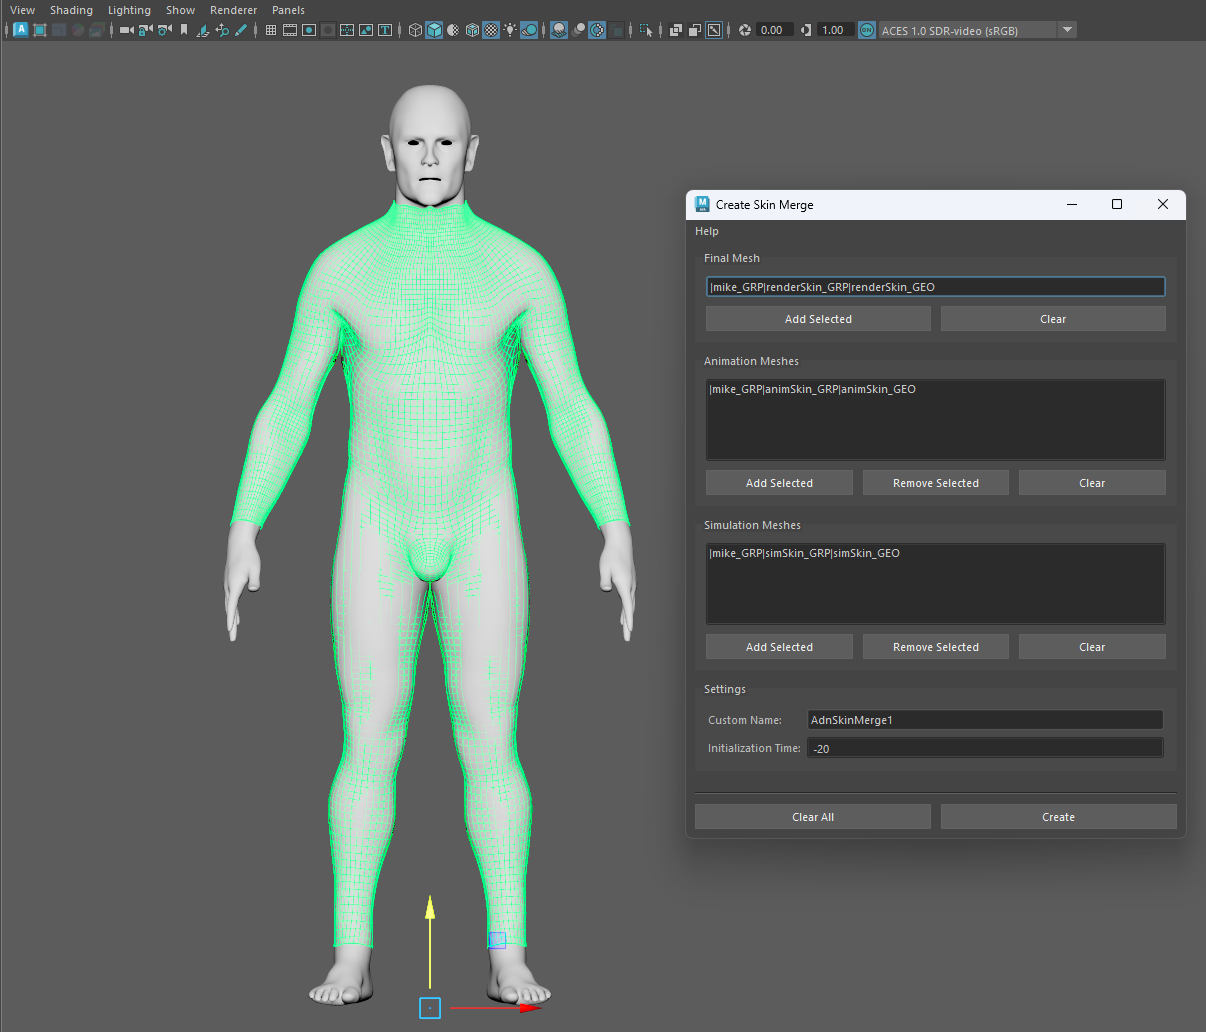
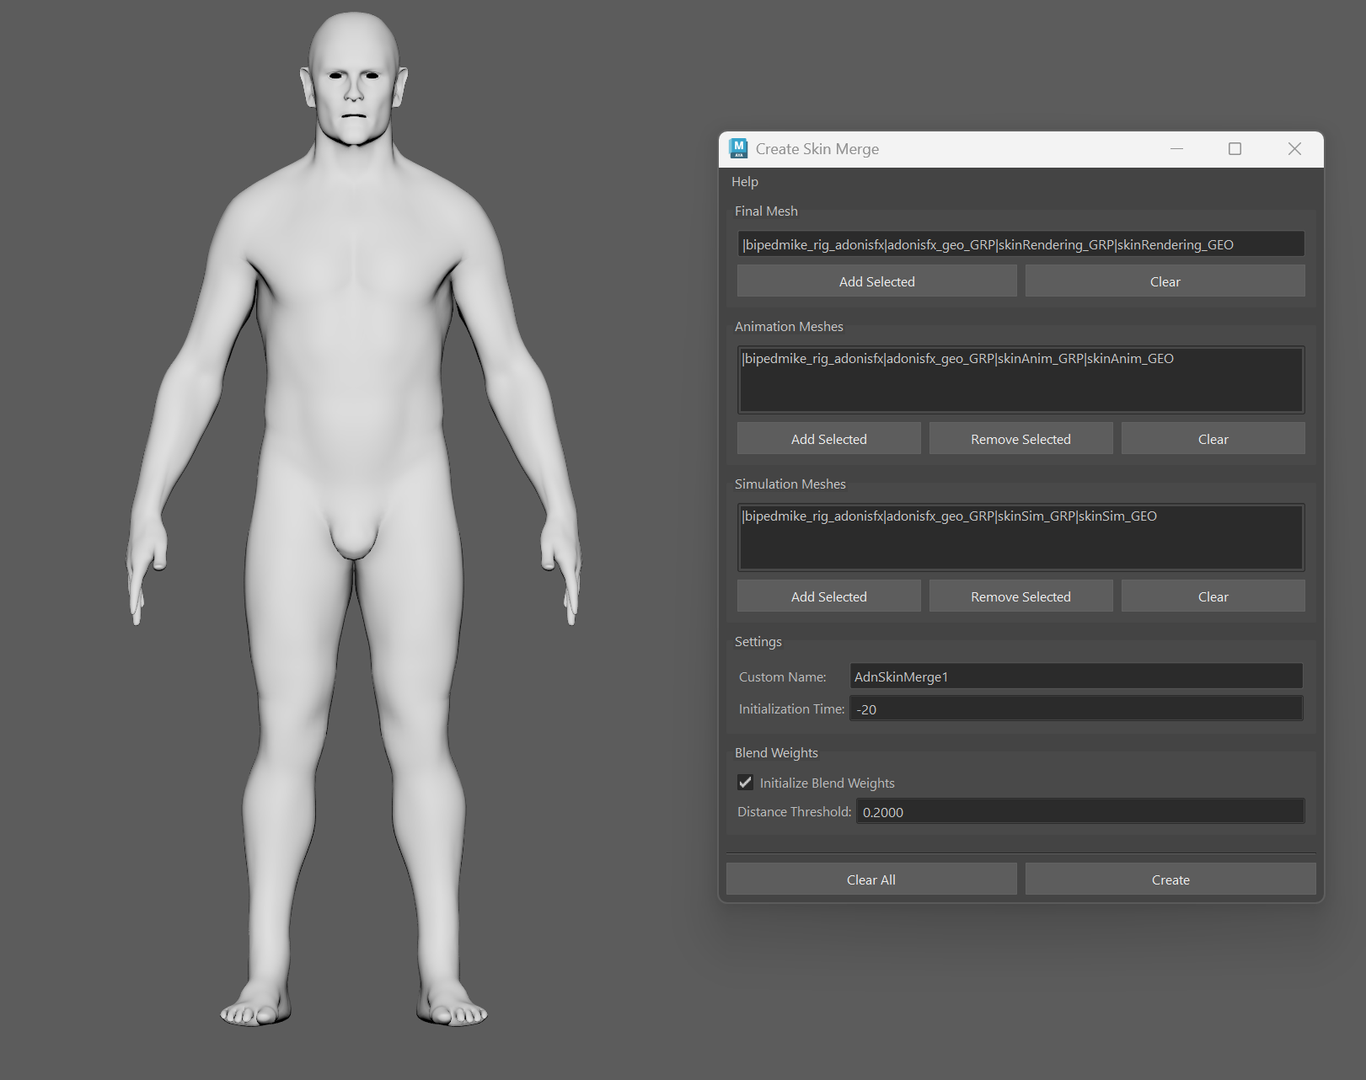
Update skin merge figures (in simple setup) to use the automatic initialization and the distance threshold

diff --git a/docs/maya/simple_setup.md b/docs/maya/simple_setup.md
@@ -462,11 +462,14 @@ This opens the Create Skin Merge UI, where you can add all the elements required
 
 The *Blend Weights* section can automatically initialize the blend map based on proximity. Enable blend weight initialization and set a distance threshold. Final-mesh vertices within that distance of a simulation mesh receive simulation influence, while the remaining vertices keep their animation influence.
 
+> [!WARNING]
+> Initialization can take significantly longer when using a large distance threshold or when the animation and simulation meshes are widely separated in space. Use the smallest threshold suitable for the setup and initialize at a frame where the meshes are positioned close to each other whenever possible.
+
 When everything has been properly set up, press the *Create* button to create the AdnSkinMerge deformer.
 
 <figure markdown>
   ![Create Skin Merge window with corresponding meshes added](images/simple_setup_skin_merge_01.png)
-  <figcaption><b>Figure 38</b>: Create Skin Merge window with corresponding meshes added.</figcaption>
+  <figcaption><b>Figure 38</b>: Create Skin Merge window with corresponding meshes, initialize blend weights enabled with a distance threshold of 0.2.</figcaption>
 </figure>
 
 ### Paint Weights
@@ -484,7 +487,7 @@ If the automatic initialization reports that no vertices are within the threshol
 
 <figure markdown>
   ![Blend weights painted map](images/simple_setup_skin_merge_02.png)
-  <figcaption><b>Figure 39</b>: Blend weights painted map.</figcaption>
+  <figcaption><b>Figure 39</b>: Blend weights painted map result of the automatic initialization plus two passes of smoothing in the whole mesh.</figcaption>
 </figure>
 
 With this basic paint setup the AdnSkinMerge deformer will now show the results of skin simulation transferred to the final mesh.

diff --git a/docs/maya/deformers/skin_merge.md b/docs/maya/deformers/skin_merge.md
@@ -39,7 +39,7 @@ The process to create an AdnSkinMerge deformer is:
 
 6. Press the *Create* button. A message in the terminal will confirm that AdnSkinMerge has been created. If blend weight initialization is disabled, the final mesh follows the animation mesh inputs by default.
 
-7. To refine the influence of the simulation mesh inputs, use Maya's paintable context to customize the blend weights map.
+7. To refine the influence of the simulation mesh inputs, use Maya's paintable context to customize the blend weights map. Smoothing the weights is advised to avoid hard transitions between the animated and simulated meshes.
 
 Once the AdnSkinMerge deformer is created, to modify its input meshes (animation mesh list, simulation mesh list or both) do the following:
 
@@ -59,6 +59,9 @@ Once the AdnSkinMerge deformer is created, to modify its input meshes (animation
 ## Automatic Blend Weight Initialization
 
 Automatic initialization computes the *Blend* map from the distance between each vertex of the final mesh and the simulation meshes. Vertices within the configured threshold are assigned simulation influence, while vertices outside it remain driven by the animation meshes.
+
+> [!WARNING]
+> Blend weight initialization times can increase significantly when using a large distance threshold or when the animation and simulation meshes are widely separated in space.
 
 The option is available both when creating an AdnSkinMerge deformer and when editing an existing one. In edit mode, reinitialization replaces the current blend weights.
 
